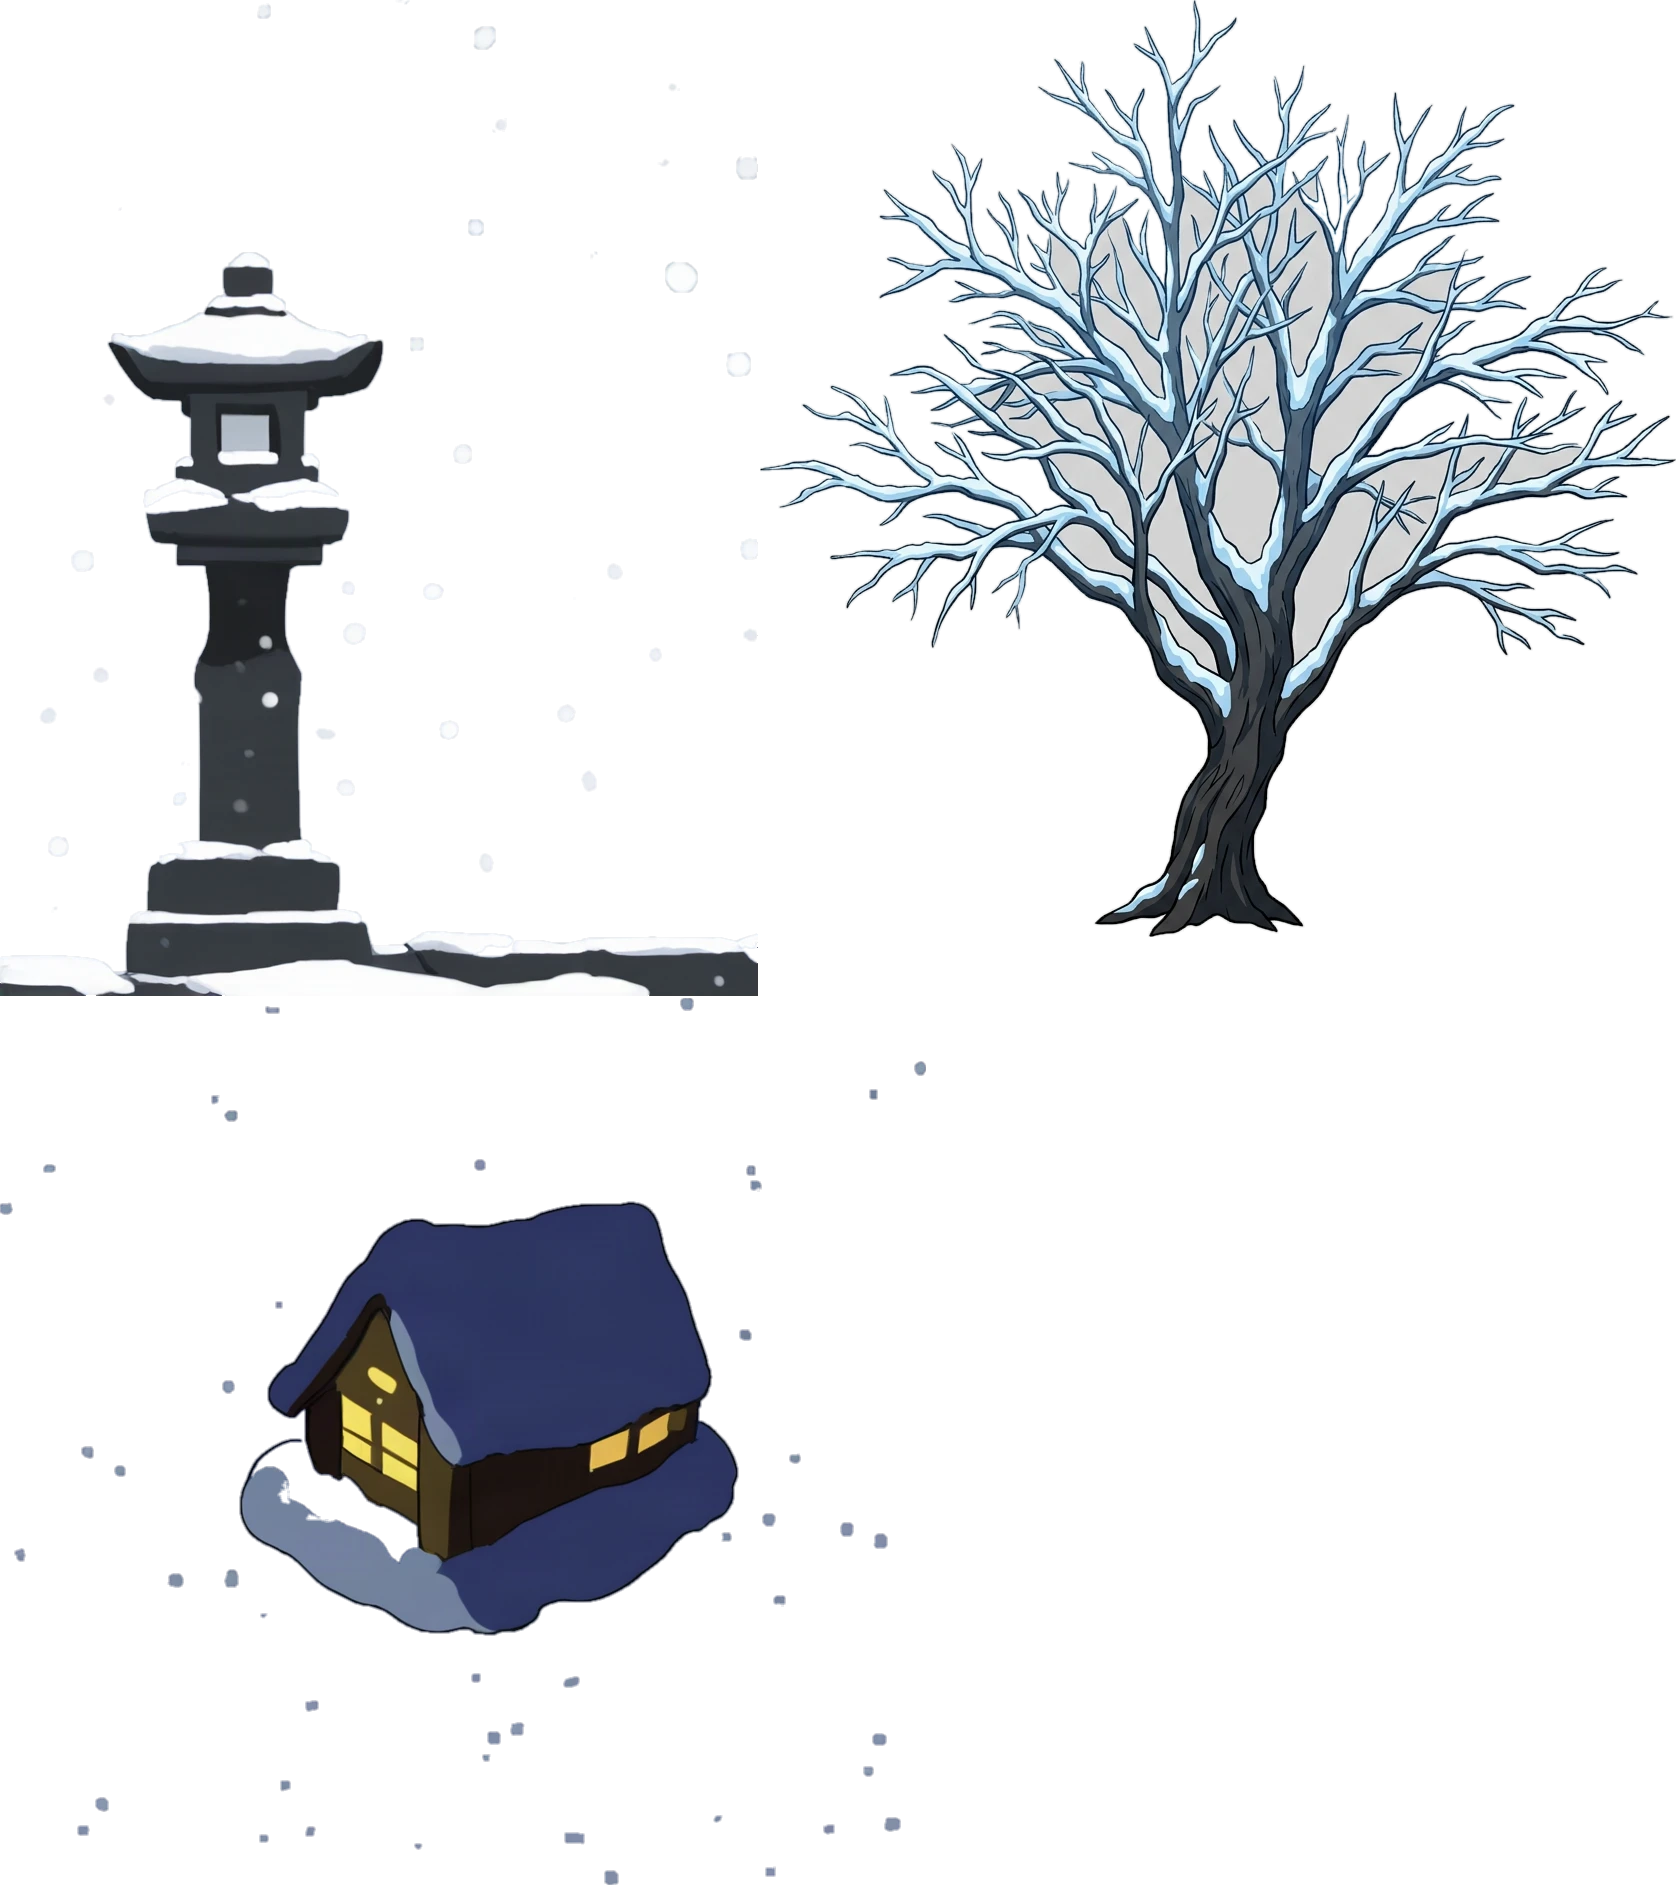
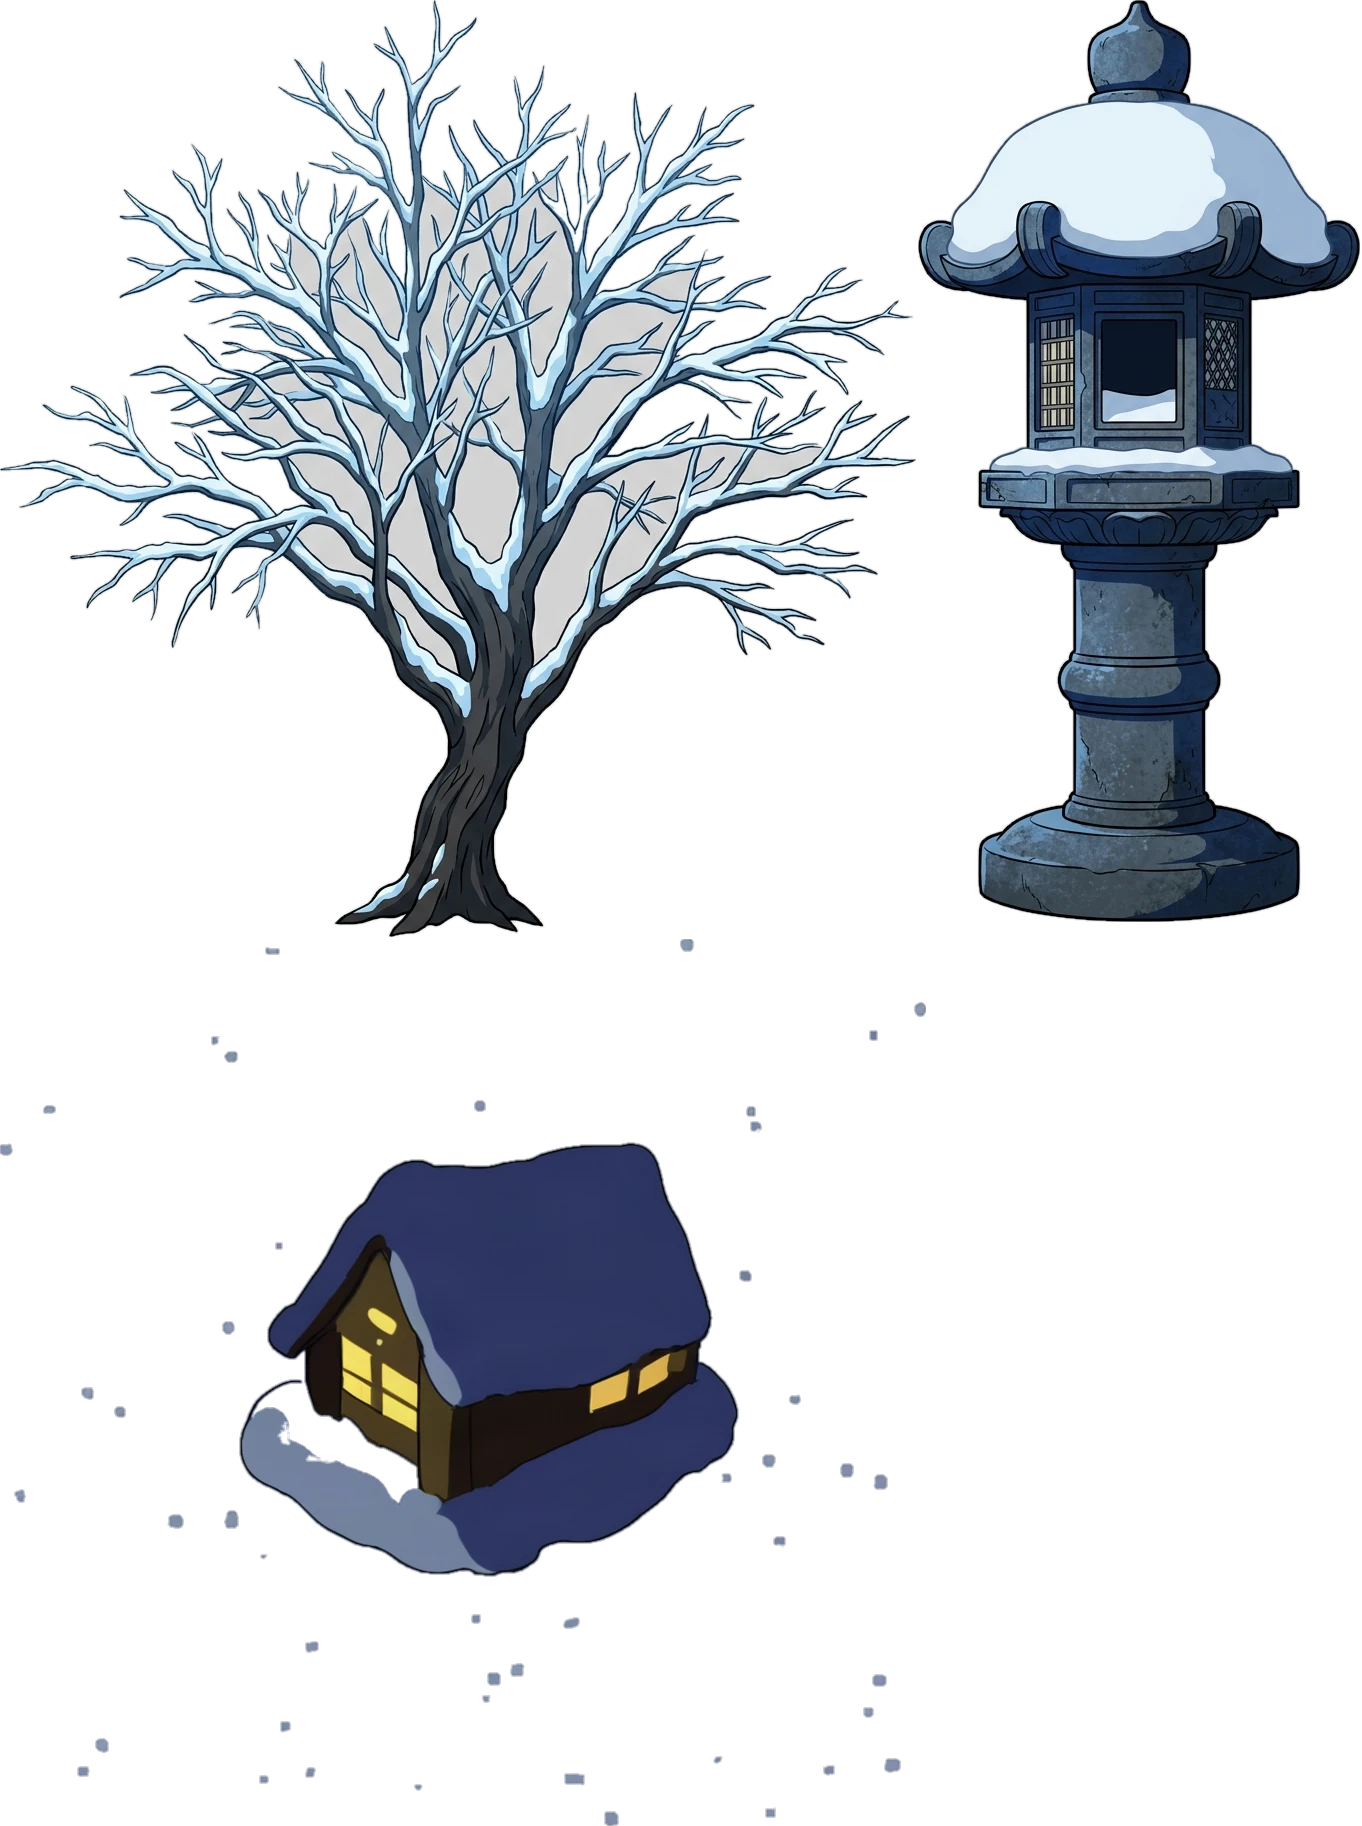
Swap the Still Quarter's stone lantern for the re-rolled plate
The old one came from fal before its balance ran out and cut as a lumpy
mass with a stray object beside it that had to be cropped away by hand.
Antigravity's quota came back; this is a proper ishidoro with a snow cap
that mattes clean at 19.6% coverage.

No code changed — stage-pack resolves landmark plates by suffix
priority, so dropping the better file in as lm-lantern-src.jpg and
re-packing IS the swap.

diff --git a/index.html b/index.html
@@ -21,7 +21,7 @@
         }
     }
     </script>
-    <meta name="yw-build" content="yw-202608072311-c98d50">
+    <meta name="yw-build" content="yw-202608081418-90c4af">
 </head>
 
 <body>

diff --git a/src/main.js b/src/main.js
@@ -842,4 +842,4 @@ window.YAMIWARD = {
     setP2Mode(m) { if (P2_MODES.includes(m)) p2Mode = m; return p2Mode; },
 };
 
-// yw-202608072311-c98d50
+// yw-202608081418-90c4af

diff --git a/styles.css b/styles.css
@@ -662,4 +662,4 @@ html, body {
     padding: 2px;
 }
 
-/* yw-202608072311-c98d50 */
+/* yw-202608081418-90c4af */
